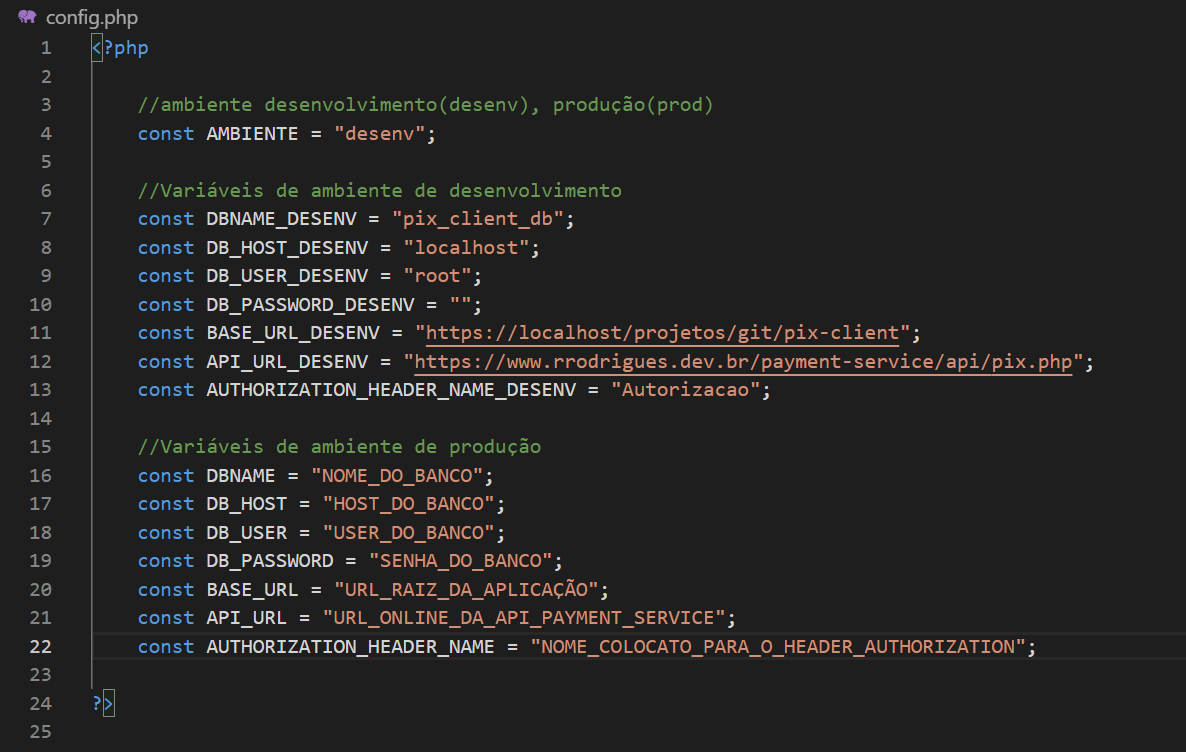
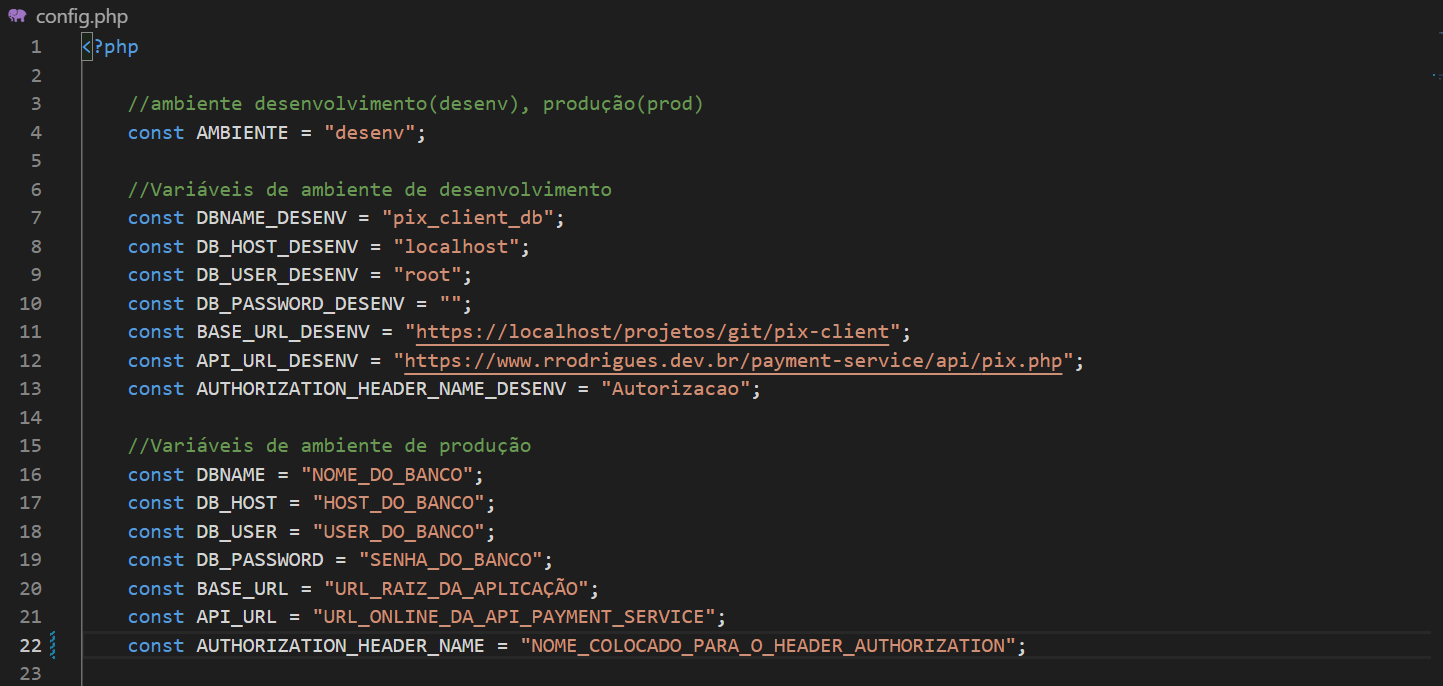
Ajustes config.php

Changed region(s): [[0.0, 0.0, 0.9047, 1.0]]

diff --git a/config.php b/config.php
@@ -19,6 +19,6 @@
     const DB_PASSWORD = "SENHA_DO_BANCO";
     const BASE_URL = "URL_RAIZ_DA_APLICAÇÃO";
     const API_URL = "URL_ONLINE_DA_API_PAYMENT_SERVICE";
-    const AUTHORIZATION_HEADER_NAME = "NOME_COLOCATO_PARA_O_HEADER_AUTHORIZATION";
+    const AUTHORIZATION_HEADER_NAME = "NOME_COLOCADO_PARA_O_HEADER_AUTHORIZATION";
 
 ?>
